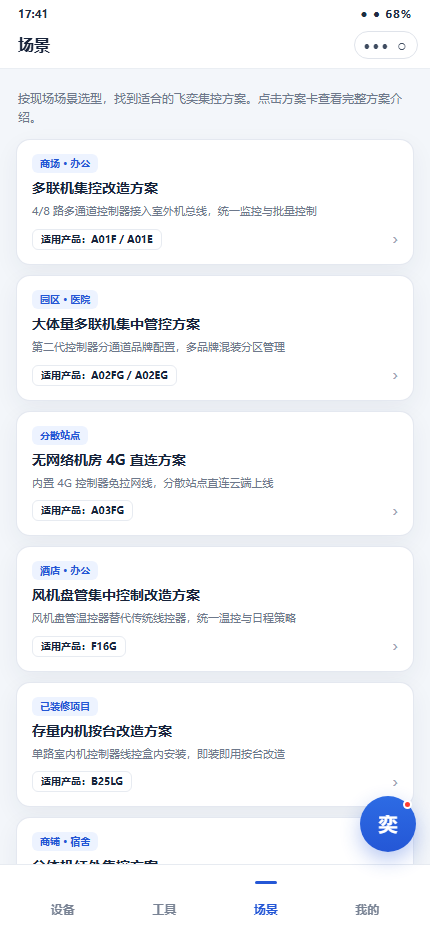
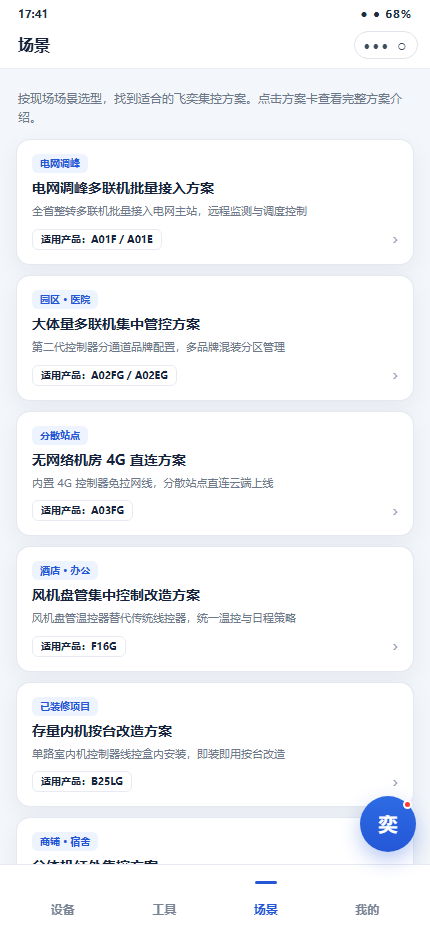
A01系列主场景改为电网调峰：场景卡改电网调峰多联机批量接入方案（全省整转接入电网主站，远程监测与调度控制），A01方案文档内容重写（主站联调/调峰演练验收），A01F/A01E产品介绍与手册简介同步突出调峰场景；demo.html启动页展示区域改为430:932统一比例（原390x760）

Changed region(s): [[0.0605, 0.1556, 0.7558, 0.2489]]

diff --git a/assets/app/product-data.js b/assets/app/product-data.js
@@ -141,12 +141,12 @@
 
   var productIntros = {
     A01F: {
-      intro: '多通道室外机控制器，面向多联机集中管控场景。单台可同时接入 4 套品牌外机系统，通过外机通讯总线完成协议解析，将空调运行数据与控制指令接入云端管理平台。',
-      features: ['4 路外机通道，一台覆盖多套系统', '主流品牌多联机协议解析', '服务器对接与通讯自动检测', '电表参数下发，支持用电计量']
+      intro: '多通道室外机控制器，面向电网调峰多联机批量接入场景。单台可同时接入 4 套品牌外机系统，通过外机通讯总线完成协议解析，将空调运行数据与调度控制指令接入电网主站与云端管理平台。',
+      features: ['4 路外机通道，一台覆盖多套系统', '主流品牌多联机协议解析', '电网主站调度指令下发与执行反馈', '服务器对接与通讯自动检测']
     },
     A01E: {
-      intro: '多通道室外机控制器的 8 路版本，面向大体量多联机项目。单台可同时接入 8 套品牌外机系统，减少设备数量与布线成本，统一接入云端管理平台。',
-      features: ['8 路外机通道，适合大体量项目', '主流品牌多联机协议解析', '服务器对接与通讯自动检测', '电表参数下发，支持用电计量']
+      intro: '多通道室外机控制器的 8 路版本，面向全省整转的大体量多联机批量接入项目。单台可同时接入 8 套品牌外机系统，减少设备数量与布线成本，统一接入电网主站与云端管理平台。',
+      features: ['8 路外机通道，适合批量整转项目', '主流品牌多联机协议解析', '电网主站调度指令下发与执行反馈', '服务器对接与通讯自动检测']
     },
     A02FG: {
       intro: '第二代 4 路室外机控制器，硬件平台升级，协议兼容性与运行稳定性进一步增强，支持品牌批量配置，现场部署更高效。',
@@ -227,7 +227,7 @@
       { title: '留言反馈', icon: '言', href: 'feedback.html' }
     ],
     scenes: [
-      { tag: '商场 · 办公', title: '多联机集控改造方案', desc: '4/8 路多通道控制器接入室外机总线，统一监控与批量控制', products: 'A01F / A01E', series: 'a01' },
+      { tag: '电网调峰', title: '电网调峰多联机批量接入方案', desc: '全省整转多联机批量接入电网主站，远程监测与调度控制', products: 'A01F / A01E', series: 'a01' },
       { tag: '园区 · 医院', title: '大体量多联机集中管控方案', desc: '第二代控制器分通道品牌配置，多品牌混装分区管理', products: 'A02FG / A02EG', series: 'a02' },
       { tag: '分散站点', title: '无网络机房 4G 直连方案', desc: '内置 4G 控制器免拉网线，分散站点直连云端上线', products: 'A03FG', series: 'a03fg' },
       { tag: '酒店 · 办公', title: '风机盘管集中控制改造方案', desc: '风机盘管温控器替代传统线控器，统一温控与日程策略', products: 'F16G', series: 'f16g' },
@@ -290,7 +290,7 @@
       {
         key: 'a01', title: 'A01 系列', rep: 'A01F', models: 'A01F / A01E', desc: '多通道室外机控制器 · 4/8 路',
         videos: ['A01 系列开箱安装与首次上电', '服务器参数配置与连接自检', '空调品牌批量配置实操'],
-        docs: [['产品手册', 'A01 系列室外机控制器产品手册'], ['方案文档', '多联机集控改造方案（A01 系列）'], ['指导文件', 'A01 系列接线端子与拨码说明']]
+        docs: [['产品手册', 'A01 系列室外机控制器产品手册'], ['方案文档', '电网调峰多联机批量接入方案'], ['指导文件', 'A01 系列接线端子与拨码说明']]
       },
       {
         key: 'a02', title: 'A02 系列', rep: 'A02FG', models: 'A02FG / A02EG', desc: '第二代室外机控制器 · 4/8 路',

diff --git a/assets/app/manual-data.js b/assets/app/manual-data.js
@@ -6,7 +6,7 @@
   return {
     a01: [
       [
-        { title: '产品简介', text: 'A01 系列是面向多联机（氟机）集控改造的多通道室外机控制器，通过 RS485 总线接入空调室外机，A01F 支持 4 路通道、A01E 支持 8 路通道，每通道可接多台内机，实现统一监控与批量控制。' },
+        { title: '产品简介', text: 'A01 系列是面向电网调峰多联机批量接入的多通道室外机控制器，通过 RS485 总线接入空调室外机，A01F 支持 4 路通道、A01E 支持 8 路通道，每通道可接多台内机，实现统一监控与调度控制。' },
         { title: '技术参数', rows: [['产品型号', 'A01F / A01E'], ['通道数量', '4 路 / 8 路'], ['通讯接口', 'RS485（每通道独立）'], ['供电规格', 'DC 12V'], ['工作温度', '-20℃ ~ 70℃'], ['安装方式', '35mm 标准导轨']] },
         { title: '接线说明', text: '每通道 A/B 端子按极性接入空调通讯总线，建议使用屏蔽双绞线并远离强电敷设；室外机侧端子位置因品牌而异，接线前务必断电操作。' },
         { title: '指示灯说明', text: 'POWER 常亮表示供电正常；RUN 闪烁表示运行正常；通道灯常亮表示该通道通讯正常，熄灭请检查接线与品牌配置。' },
@@ -14,10 +14,10 @@
         { title: '注意事项', text: '同一通道内空调品牌必须一致；修改品牌配置后需重新搜索内机；通讯总线施工请避开雷雨天气。' }
       ],
       [
-        { title: '适用场景', text: '适用于商场、办公楼、学校等多联机集中管控项目，单台 A01 可覆盖 4-8 套多联机系统，多台级联可管理大型园区。' },
-        { title: '系统架构', text: '空调室外机 → RS485 总线 → A01 控制器 → 局域网/4G 路由 → 集控计费平台 → 小程序/网页端。' },
-        { title: '实施步骤', text: '现场勘查（品牌、数量、总线位置）→ 控制柜安装与接线 → 通道品牌配置 → 平台建项绑定 → 可视化布局与节能策略下发。' },
-        { title: '验收要点', text: '内机识别率 100%；批量控制响应不超过 3 秒；断电重启后设备自动恢复上线。' }
+        { title: '适用场景', text: '电网调峰需求响应项目：全省整转将商场、办公楼、学校等建筑的多联机批量接入电网主站，参与电力需求侧响应与削峰填谷。A01 系列单台覆盖 4-8 套多联机系统，适合大批量整转部署。' },
+        { title: '系统架构', text: '多联机室外机 → RS485 总线 → A01 控制器 → 云端/4G → 电网主站（远程监测与调度控制）→ 集控计费平台（运维与计费管理）。' },
+        { title: '实施步骤', text: '区域摸排建档（品牌、数量、可调容量）→ 批量安装接线 → 逐站调试上线 → 电网主站联调（监测点表核对、调度指令试发）→ 调峰演练验收。' },
+        { title: '验收要点', text: '在网率与数据采集完整率达标；调度指令响应时间与现场执行一致性；削峰响应容量达到申报值。' }
       ],
       [
         { title: '端子定义', rows: [['VCC / GND', '供电输入 DC 12V'], ['A1/B1 ~ A8/B8', '通道 1-8 通讯端子'], ['PE', '屏蔽层接地端子']] },

diff --git a/demo.html b/demo.html
@@ -22,9 +22,9 @@
     }
     .demo-launch {
       position: relative;
-      width: min(100%, 390px);
-      min-height: min(760px, calc(100vh - 48px));
-      min-height: min(760px, calc(100svh - 48px));
+      width: min(430px, 96vw, calc(96svh * 430 / 932));
+      height: min(932px, 96svh, calc(96vw * 932 / 430));
+      aspect-ratio: 430 / 932;
       display: flex;
       flex-direction: column;
       overflow: hidden;
@@ -166,6 +166,7 @@
       .demo-stage { display: block; padding: 0; }
       .demo-launch {
         width: 100%;
+        height: auto;
         min-height: 100vh;
         min-height: 100svh;
         border: 0;
@@ -177,7 +178,6 @@
       .launch-foot { padding-left: 20px; padding-right: 20px; }
     }
     @media (max-height: 660px) {
-      .demo-launch { min-height: calc(100svh - 24px); }
       .launch-main { padding-top: 18px; padding-bottom: 24px; }
       .product-mark { width: 72px; height: 72px; margin-bottom: 20px; }
       .product-mark img { width: 52px; height: 52px; }
